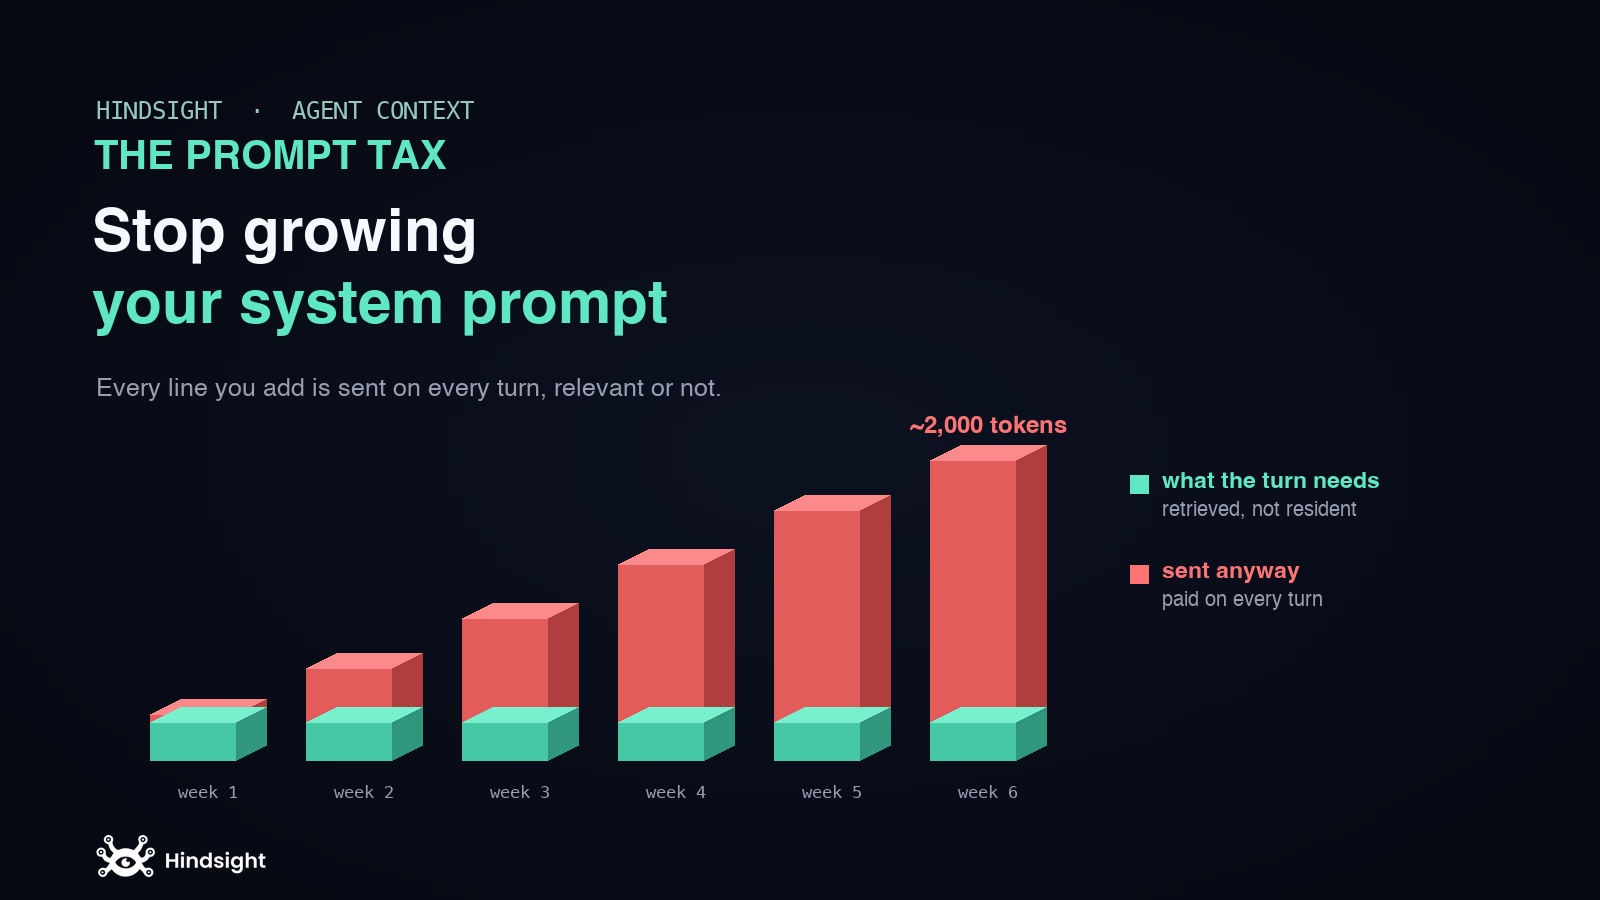
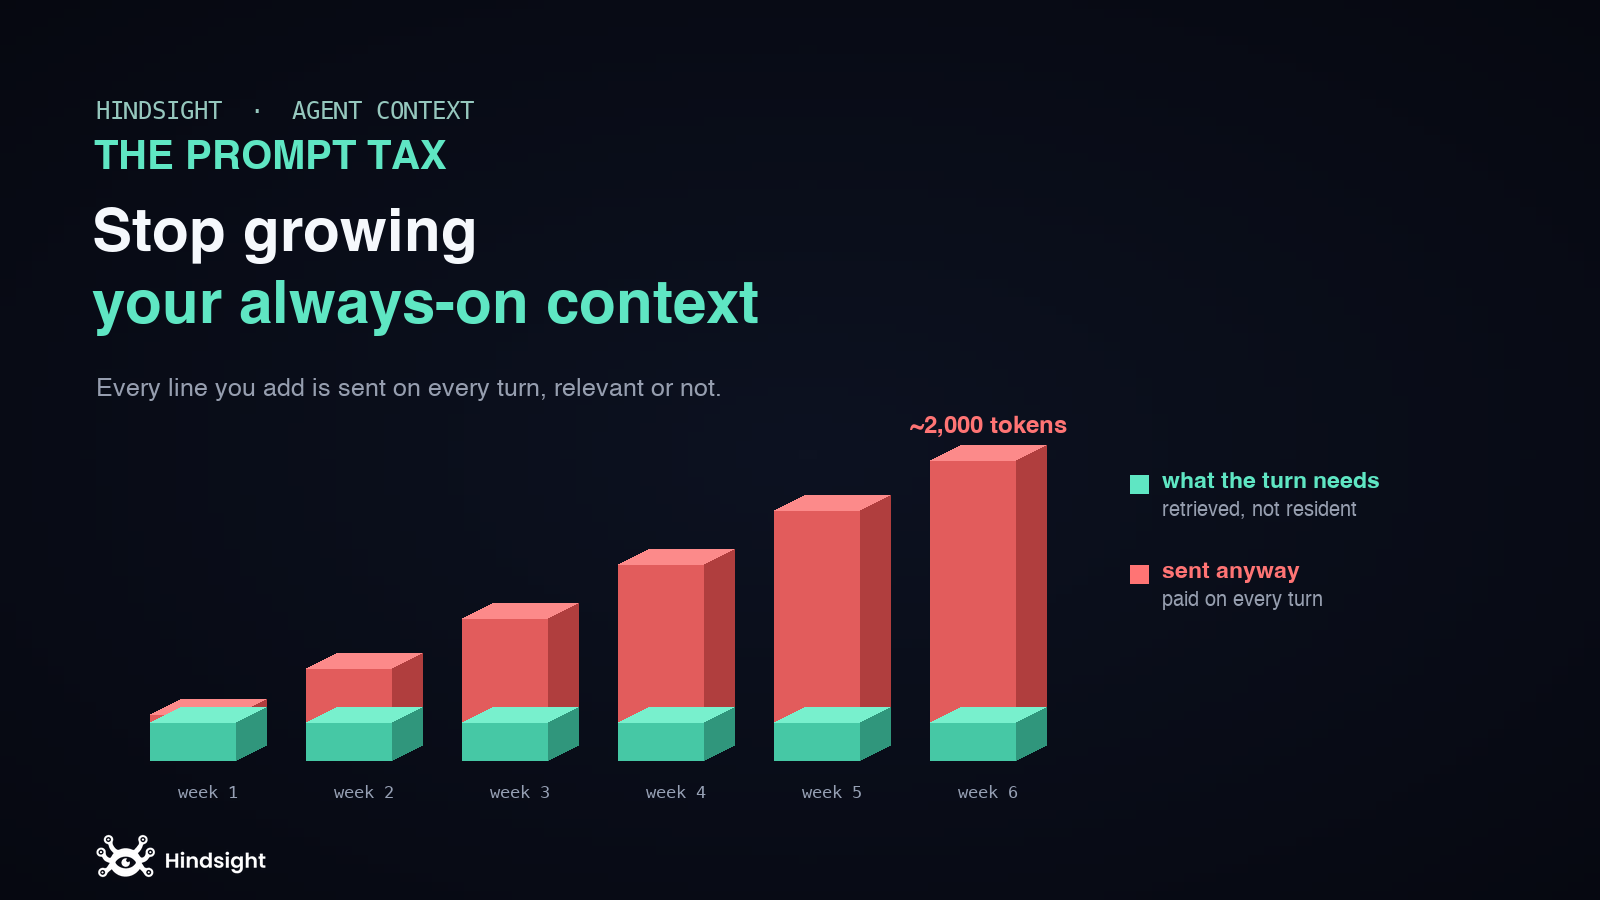
blog: address review feedback on always-on context
Retitle to 'Stop Growing Your Always-On Context' and add a section on
prompt caching, rules files, compaction and progressive disclosure, so
the post engages with how harnesses manage context today.

Claude-Session: https://claude.ai/code/session_01ED7KLomwzW1ywJcbrpEqve

Changed region(s): [[0.1562, 0.3111, 0.4688, 0.3733]]

diff --git a/hindsight-docs/blog/2026-09-04-stop-growing-your-system-prompt.md b/hindsight-docs/blog/2026-09-04-stop-growing-your-system-prompt.md
@@ -1,5 +1,5 @@
 ---
-title: "Stop Growing Your System Prompt"
+title: "Stop Growing Your Always-On Context"
 authors: [benfrank241]
 slug: "2026/09/04/stop-growing-your-system-prompt"
 date: 2026-09-04T13:00
@@ -9,9 +9,9 @@ image: /img/blog/stop-growing-your-system-prompt.png
 hide_table_of_contents: true
 ---
 
-![Stop growing your system prompt: unconditional context costs every turn and gets less relevant as it grows](/img/blog/stop-growing-your-system-prompt.png)
+![Stop growing your always-on context: unconditional context costs every turn and gets less relevant as it grows](/img/blog/stop-growing-your-system-prompt.png)
 
-Every agent starts with a small system prompt. Then it gets something wrong, and you add a line. Then it gets something else wrong, and you add a paragraph. Six weeks later the prompt is two thousand tokens of accumulated correction, nobody remembers why half of it is there, and deleting any of it feels risky.
+Every agent starts with a small system prompt, though these days it's more often a `CLAUDE.md` or an `AGENTS.md` than a string in your code. Call the whole thing the always-on context: the instructions your agent reads on every single turn, wherever they physically live. Then it gets something wrong, and you add a line. Then it gets something else wrong, and you add a paragraph. Six weeks later the prompt is two thousand tokens of accumulated correction, nobody remembers why half of it is there, and deleting any of it feels risky.
 
 This is the most natural thing in the world to do, and for a while it's genuinely the right move. The question is what happens after that.
 
@@ -38,6 +38,20 @@ Two thousand tokens of accumulated instruction gets sent when the user asks you 
 **It crowds out the actual task.** Context is finite even when it's large, and everything spent on standing instruction is unavailable to the thing you're doing right now. In a long session, prompt bloat is competing directly with the code the agent needs to read.
 
 **Relevance falls as size grows.** A model attending to twenty highly relevant lines behaves differently than one attending to two hundred lines of which twenty apply. You haven't just added noise around the signal; you've made the signal proportionally smaller. Adding a rule can genuinely make an existing rule less likely to be followed, which is a maddening thing to debug because the line you added is fine and the line that broke is untouched.
+
+## But my harness already handles this
+
+The tooling has moved since the worst version of this problem. Standing context now lives in files rather than a string, scoped per project and sometimes per directory. Prompt caching means a stable prefix isn't billed at full rate on every turn. Harnesses compact long sessions automatically, hand work to subagents with their own windows, and load some instructions only when they look relevant.
+
+All of that is real, and it genuinely changes the economics. It doesn't change the shape of the problem.
+
+**Caching cuts the price, not the crowding.** On Anthropic's API, a cached prefix reads at roughly a tenth of the normal input rate; writing the cache costs about 25% more, and the default entry lives five minutes. That's a large saving on the least interesting of the three costs. The tokens still occupy the window, the model still attends to them, and a rule buried in two thousand tokens of standing instruction is no easier to follow for having been cheap to send.
+
+**Rules files ratchet harder than prompts did.** A prompt in a Python string had one author. A file in version control has everyone, with the same asymmetry: adding is a one-line PR that nobody objects to, deleting requires proving a line is obsolete. Directory scoping genuinely helps, because a file that loads only inside `services/api` is conditional context and that's the right instinct. Most of what accumulates is project-wide anyway.
+
+**Compaction manages the symptom.** Automatic summarization is what happens once the window is already full. It's lossy, it favours recent turns, and it fires in the middle of long tasks, which is exactly when losing earlier detail costs the most. It decides what to throw away after the fact; it doesn't decide what deserved to be resident in the first place.
+
+**Progressive disclosure is retrieval wearing a different hat.** When a harness loads a skill or a scoped rules file only when it looks relevant, it has stopped putting that knowledge in the prompt and started retrieving it. That's this argument, already conceded and shipped. The open question is what happens to the knowledge your harness doesn't manage for you: what your team decided, what you tried, and why.
 
 ## It only ever grows
 
